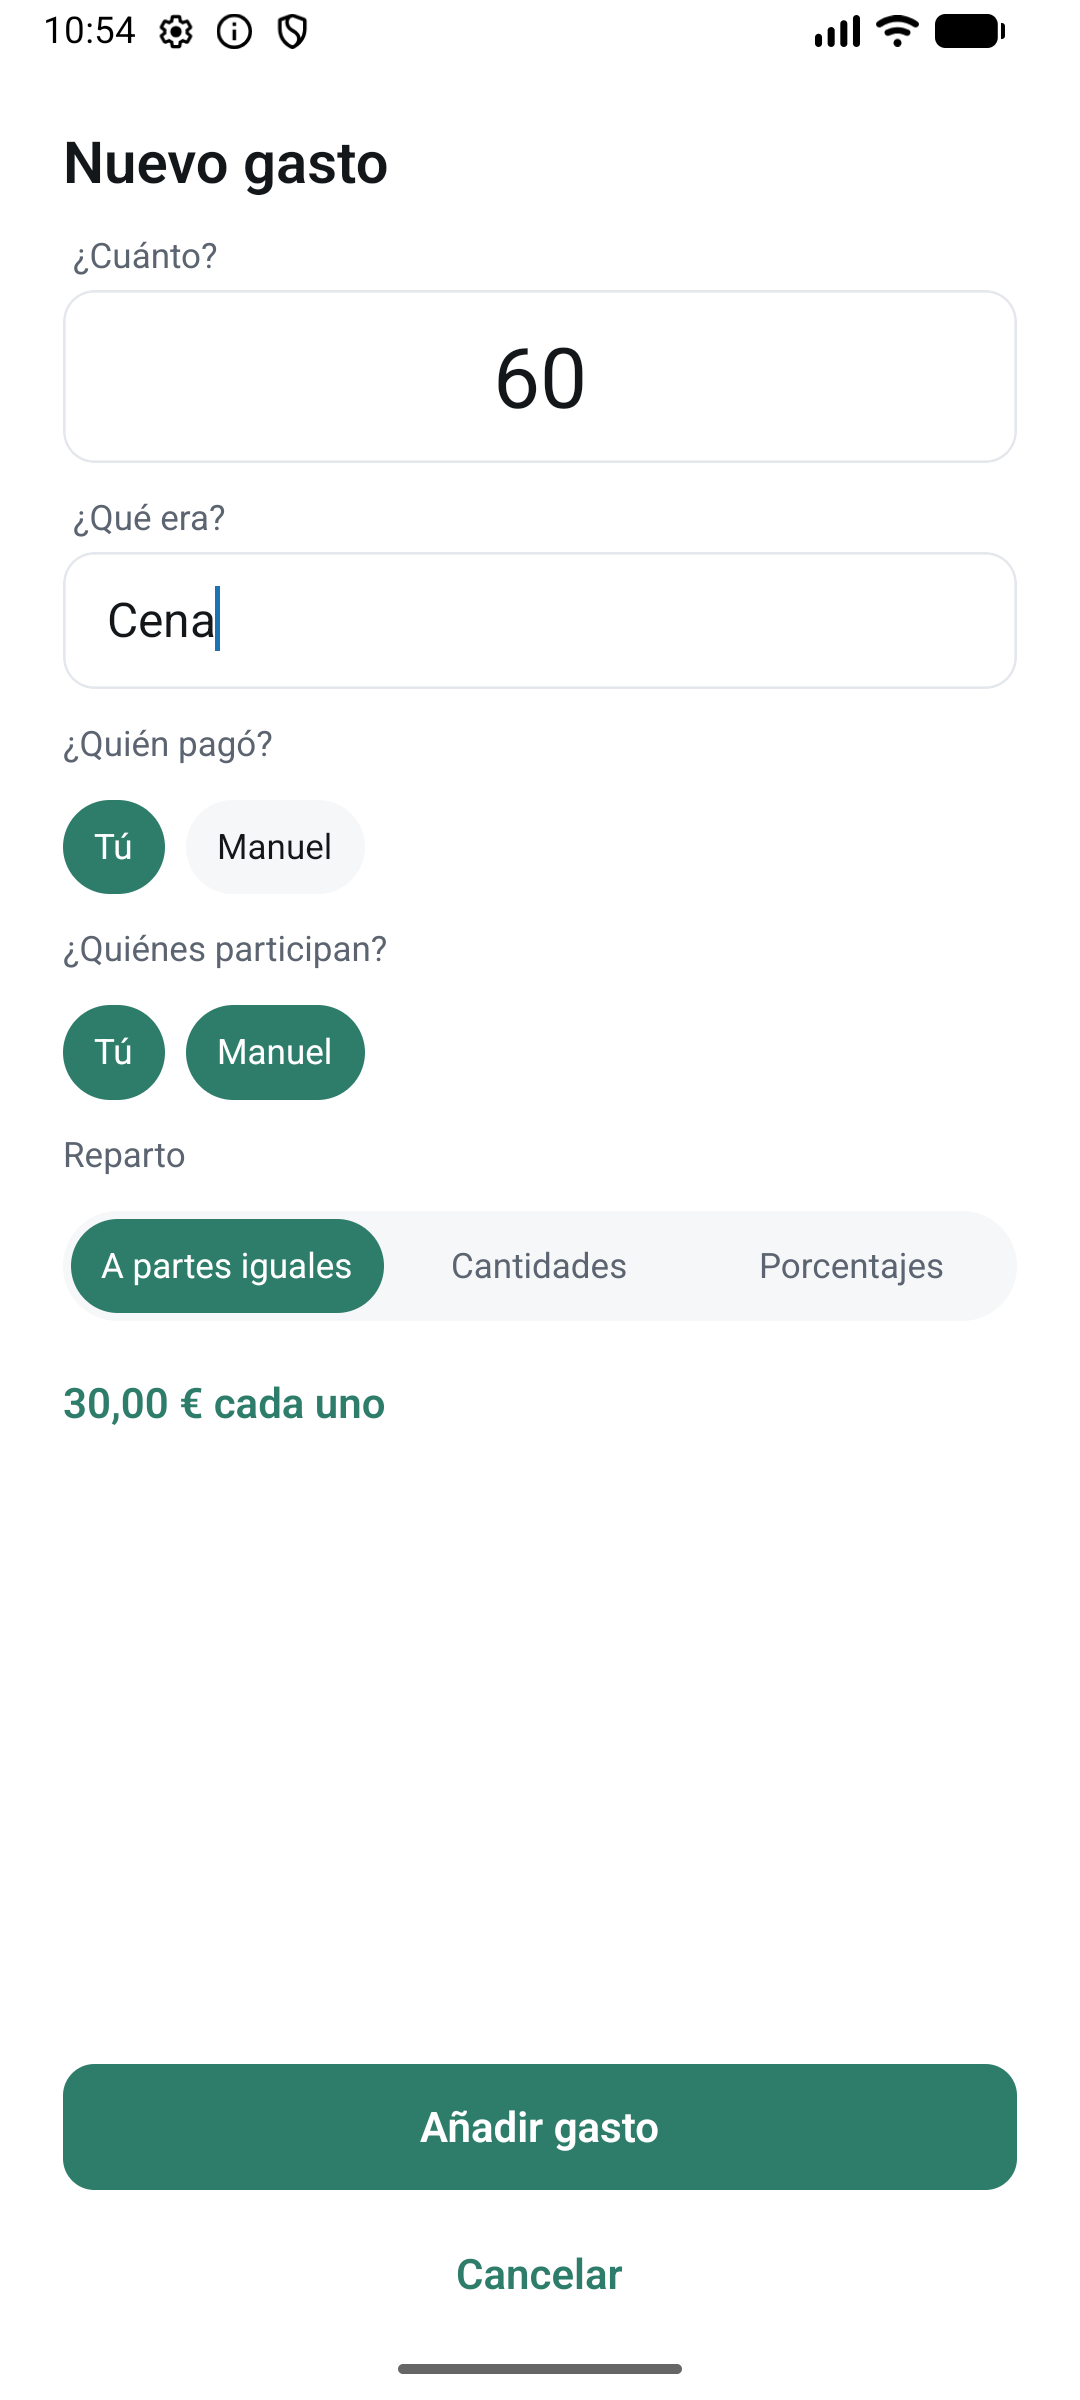
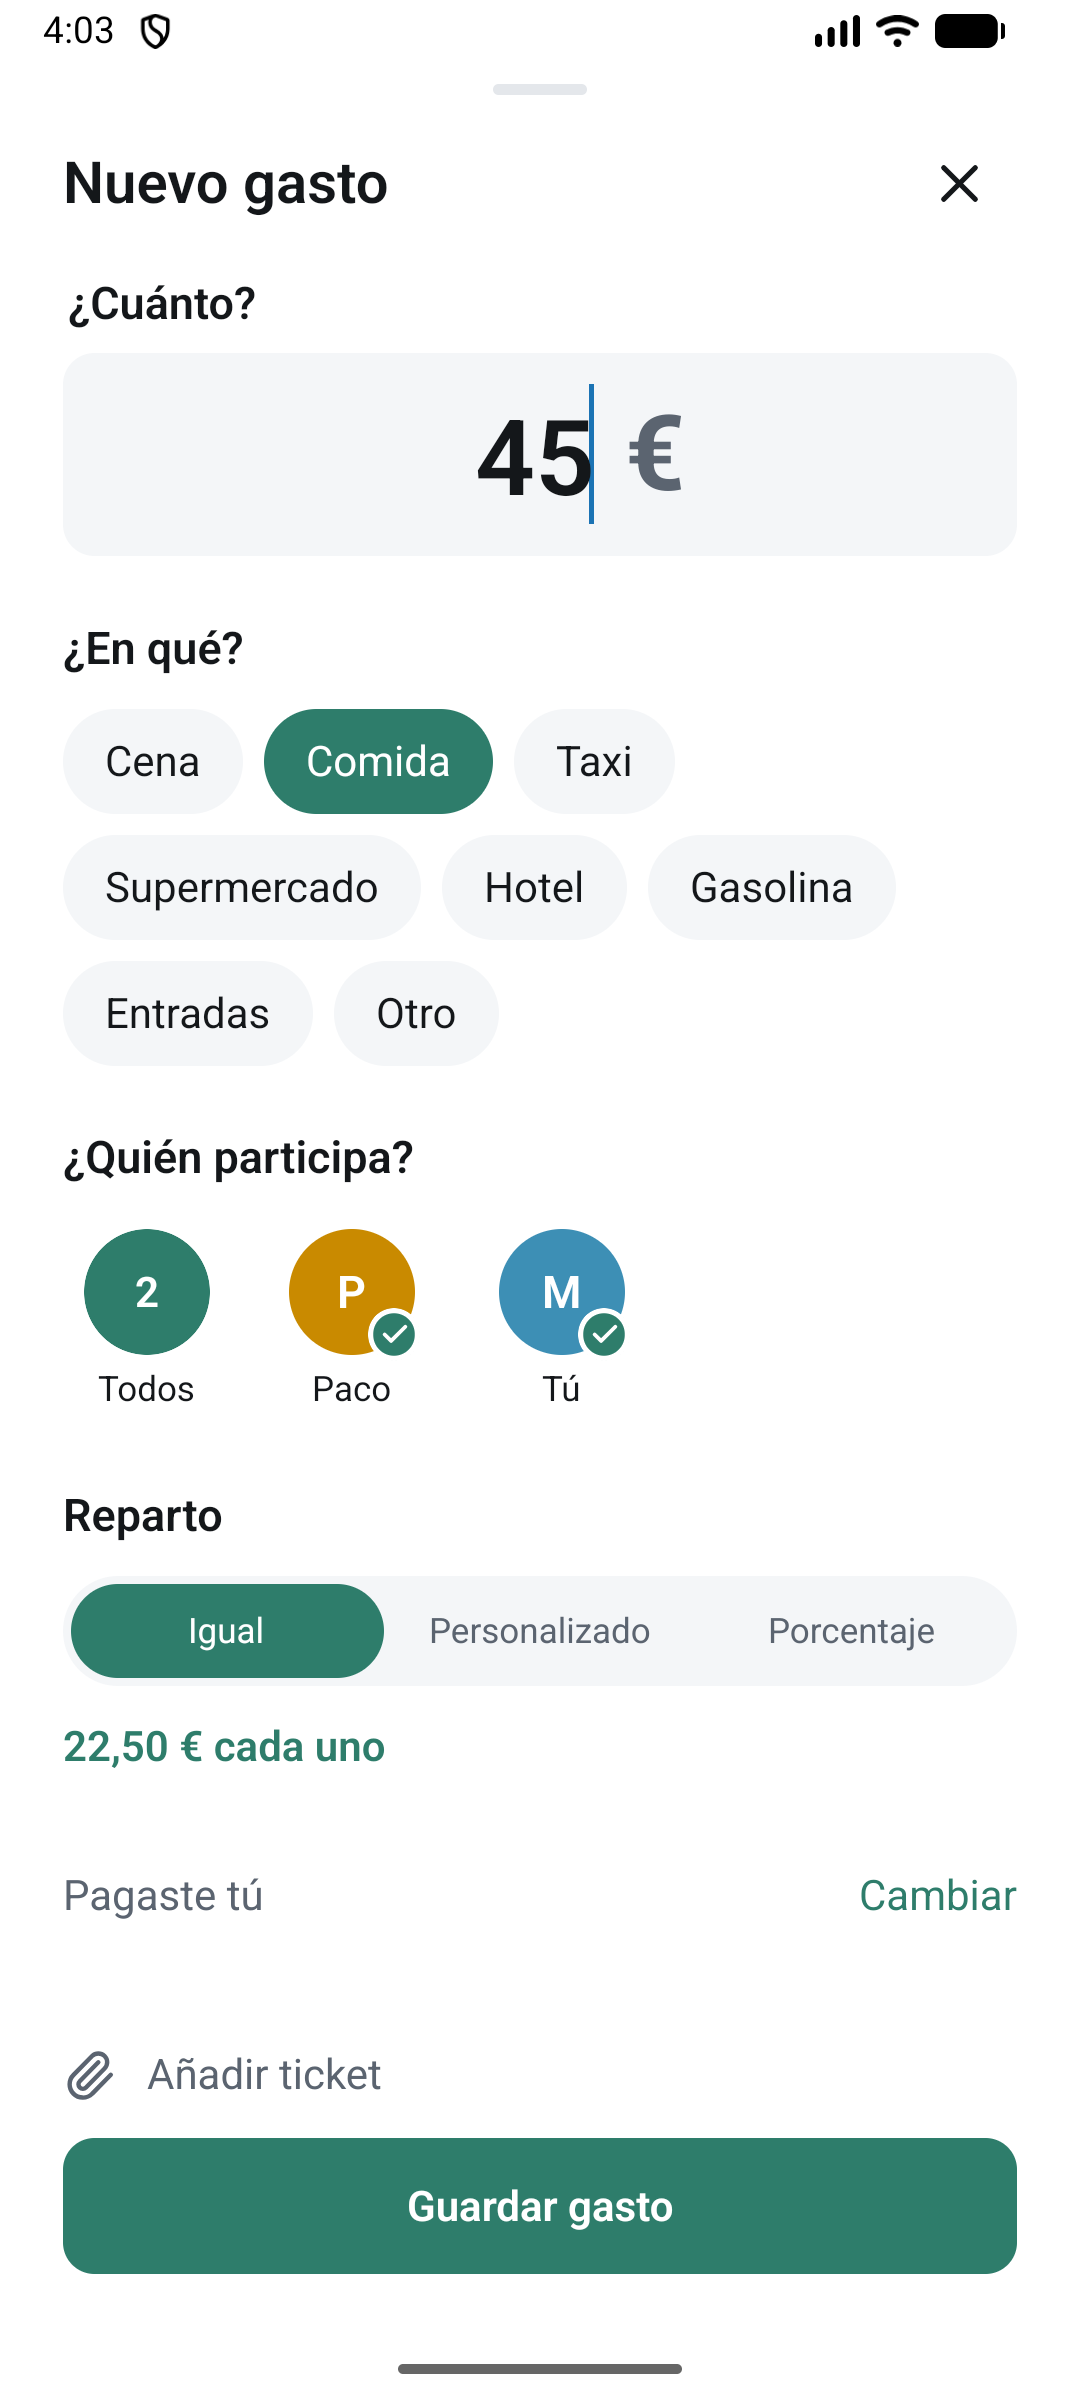
Public export 2026-09-18 (source d46a50d)

diff --git a/docs/STATUS.md b/docs/STATUS.md
@@ -1,17 +1,18 @@
 # Estado del desarrollo
 
-Actualizado: 2026-09-18
+Actualizado: 2026-09-18 (tarde)
 
-| Área                                                       | Estado       |
-| ---------------------------------------------------------- | ------------ |
-| Registro con teléfono                                      | Implementado |
-| Huchas, invitaciones por enlace, aportaciones              | Implementado |
-| Gastos con participación selectiva y tres tipos de reparto | Implementado |
-| Resumen, personas, gastos y actividad                      | Implementado |
-| Liquidación simulada (etiquetada)                          | Implementado |
-| Pruebas en dispositivos físicos                            | En curso     |
-| Notificaciones                                             | Próximamente |
-| Comprobantes (tickets)                                     | Planificado  |
-| Publicación en tiendas                                     | Sin fecha    |
+| Área                                                       | Estado                                               |
+| ---------------------------------------------------------- | ---------------------------------------------------- |
+| Registro con teléfono                                      | Implementado                                         |
+| Huchas, invitaciones por enlace, aportaciones              | Implementado                                         |
+| Gastos con participación selectiva y tres tipos de reparto | Implementado                                         |
+| Resumen, personas, gastos y actividad                      | Implementado                                         |
+| Liquidación simulada (etiquetada)                          | Implementado                                         |
+| Editar y eliminar gastos; salir, ceder y cerrar huchas     | Implementado                                         |
+| Comprobantes (tickets) en cada gasto                       | Implementado                                         |
+| Notificaciones                                             | Parcial (servidor listo; entrega en móvil pendiente) |
+| Pruebas en dispositivos físicos                            | En curso                                             |
+| Publicación en tiendas                                     | Sin fecha                                            |
 
 Nada de lo anterior está aún disponible públicamente en App Store o Google Play.

diff --git a/README.md b/README.md
@@ -67,11 +67,15 @@ Más en [docs/TECH.md](docs/TECH.md).
 
 ## Capturas
 
-| Resumen de una hucha                             | Nuevo gasto                                        | Personas                                     |
-| ------------------------------------------------ | -------------------------------------------------- | -------------------------------------------- |
-| ![Resumen](assets/screenshots/resumen-hucha.png) | ![Nuevo gasto](assets/screenshots/nuevo-gasto.png) | ![Personas](assets/screenshots/personas.png) |
+| Tus huchas                               | Una hucha                                        | Nuevo gasto                                        |
+| ---------------------------------------- | ------------------------------------------------ | -------------------------------------------------- |
+| ![Huchas](assets/screenshots/huchas.png) | ![Resumen](assets/screenshots/resumen-hucha.png) | ![Nuevo gasto](assets/screenshots/nuevo-gasto.png) |
 
-Capturas de la versión interna en desarrollo (emulador Android, datos de prueba).
+| Detalle de un gasto con ticket         | Actividad                                      |
+| -------------------------------------- | ---------------------------------------------- |
+| ![Gasto](assets/screenshots/gasto.png) | ![Actividad](assets/screenshots/actividad.png) |
+
+Capturas de la versión interna en desarrollo (emulador Android, datos de prueba; 18 de septiembre de 2026).
 
 ## Principios
 

diff --git a/CHANGELOG.md b/CHANGELOG.md
@@ -2,6 +2,23 @@
 
 Cambios visibles para usuarios. Las fechas son de desarrollo, no de publicación en tiendas.
 
+## 2026-09-18 — Rediseño de la app (versión interna)
+
+- Pantalla de hucha en un solo scroll: cuánto queda, quién ha aportado, quién debe a
+  quién y los gastos, con «Añadir gasto» siempre a mano.
+- Nuevo flujo de gasto: ¿Cuánto? → ¿En qué? (sugerencias) → ¿Quién participa? → Reparto,
+  con el reparto calculado en vivo.
+- Editar y eliminar gastos; los importes de todos se recalculan.
+- Tickets: foto o imagen adjunta a cada gasto, visible desde cualquier móvil del grupo.
+- Salir de una hucha (cuando no queda dinero pendiente), cambiar de administrador y
+  cerrar huchas.
+- Actividad agrupada por día, en lenguaje humano («Paco añadió «Cena» · 60 € · Tu parte:
+  20 €»).
+- Importes sin céntimos innecesarios («20 €», «20,50 €»), invitaciones con «Copiar
+  enlace», perfil con nombre editable y preferencia de notificaciones.
+- Notificaciones push preparadas en el servidor; la entrega en el móvil llegará con la
+  primera versión instalable.
+
 ## 2026-09 — Primera versión interna
 
 - Registro con número de teléfono y código de un solo uso.

diff --git a/docs/ROADMAP.md b/docs/ROADMAP.md
@@ -2,15 +2,20 @@
 
 Orientativo; el orden puede cambiar según lo que aprendamos con los primeros usuarios.
 
+## Hecho recientemente
+
+- Rediseño completo de la app (hucha en una sola pantalla, gasto en cuatro preguntas).
+- Editar y eliminar gastos; salir de una hucha, ceder la administración, cerrar.
+- Comprobantes: foto del ticket o imagen en cada gasto.
+
 ## Ahora
 
-- Pruebas en dispositivos reales y pulido de la experiencia.
-- Notificaciones (alguien se une, aporta o añade un gasto).
-- Editar y eliminar gastos desde la app.
+- Primera versión instalable para probar en móviles reales, con notificaciones
+  (alguien se une, aporta o añade un gasto).
+- Pulido de la experiencia con los primeros usuarios.
 
 ## Después
 
-- Comprobantes: foto del ticket o recibo en cada gasto.
 - Reparto por artículos dentro de un gasto.
 - Liquidación al cerrar la hucha con el mínimo de transferencias.
 - Versión beta cerrada.
